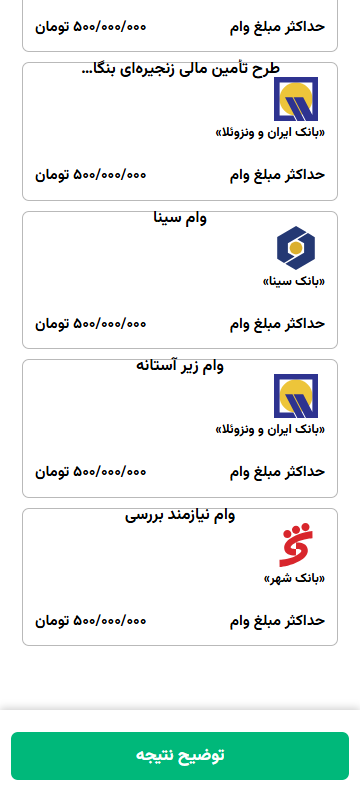
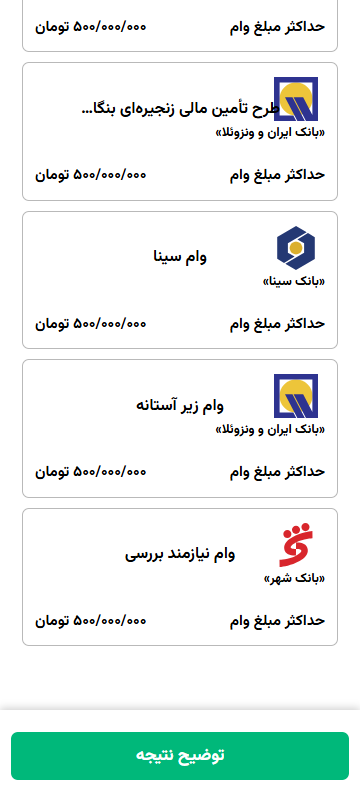
fix(US-09.T06H): align comparison result titles

diff --git a/src/App.css b/src/App.css
@@ -5106,6 +5106,7 @@ button {
   color: #000000;
   display: grid;
   grid-template-columns: 1fr;
+  grid-template-rows: minmax(78px, auto) auto;
   grid-template-areas:
     "title"
     "amount";
@@ -5119,7 +5120,6 @@ button {
 
 .hp-compare-result-card > strong {
   grid-area: title;
-  min-height: 78px;
   width: min(100%, 200px);
   padding-inline: 0;
   box-sizing: border-box;

diff --git a/docs/ui/loan-route-inventory.md b/docs/ui/loan-route-inventory.md
@@ -35,4 +35,4 @@ All three result partitions use the same card structure. Scores are server-owned
 
 ## Bank identity anchor — T06H
 
-Result, low-match, needs-review, comparison-selection, comparison-result and detail cards share one `BankIdentity` component. Its internal-only approved logo occupies a fixed box anchored from the card's right/top border. The lender name is right-aligned with the logo, always remains complete on one line and is never ellipsized; the centered loan title has a one-line 200px budget that keeps the four-word reference title visible, ellipsizes only longer titles while retaining the complete API value in `title`/accessible text, and is shifted upward by 20% of its own height. Compatibility percentages are 1.2 times the surrounding match text, while declared-interest percentages are unchanged. On comparison-selection cards only, the customer-match row is shifted downward by 20% of its own height. Comparison checkboxes have a fixed right offset independent of either name. Selection and result lists reserve scroll space for their fixed action bars; the final comparison-result card remains at least 20px from the fixed explanation button. The results controls form the stacking context above the card list, with visible overflow and a small local menu layer, so options remain visible and clickable without disabling the cards or using an arbitrary global z-index. Browser geometry checks compare short and long names and require logo/checkbox offsets to remain within 1px in desktop and mobile layouts.
+Result, low-match, needs-review, comparison-selection, comparison-result and detail cards share one `BankIdentity` component. Its internal-only approved logo occupies a fixed box anchored from the card's right/top border. The lender name is right-aligned with the logo, always remains complete on one line and is never ellipsized; the centered loan title has a one-line 200px budget that keeps the four-word reference title visible, ellipsizes only longer titles while retaining the complete API value in `title`/accessible text, and is shifted upward by 20% of its own height. The comparison-result title uses the same 78px title row as the other card headers, so its card-relative vertical coordinate remains within 1px of the results title. Compatibility percentages are 1.2 times the surrounding match text, while declared-interest percentages are unchanged. On comparison-selection cards only, the customer-match row is shifted downward by 20% of its own height. Comparison checkboxes have a fixed right offset independent of either name. Selection and result lists reserve scroll space for their fixed action bars; the final comparison-result card remains at least 20px from the fixed explanation button. The results controls form the stacking context above the card list, with visible overflow and a small local menu layer, so options remain visible and clickable without disabling the cards or using an arbitrary global z-index. Browser geometry checks compare short and long names and require logo/checkbox offsets to remain within 1px in desktop and mobile layouts.

diff --git a/CHANGELOG.md b/CHANGELOG.md
@@ -7,6 +7,7 @@ The format follows [Keep a Changelog](https://keepachangelog.com/en/1.1.0/), and
 ## [Unreleased]
 
 ### Added
+- US-09.T06H compare-result alignment follow-up: عنوان وام در کارت نتیجهٔ مقایسه اکنون از همان title row کارتهای دیگر استفاده میکند؛ آزمون browser برابری مختصات عمودی آن با کارت نتایج را تا تلرانس ۱px کنترل میکند.
 - US-09.T06H typography follow-up: عنوان وام در همهٔ کارتها ۲۰٪ ارتفاع خودش بالاتر رفت، ردیف «تطابق با وضعیت مشتری» در انتخاب مقایسه ۲۰٪ پایینتر قرار گرفت و عدد/نماد درصد تطابق بدون تغییر نرخ بهرهٔ اعلامی ۲۰٪ بزرگتر شد؛ Playwright نسبتهای واقعی geometry و font را در desktop/mobile کنترل میکند.
 - US-09.T06H follow-up: نام کامل بانک بدون ellipsis و همراستا با logo نمایش داده میشود؛ بودجهٔ عنوان وام، عبارت چهارکلمهای مرجع را کامل نگه میدارد و فقط عنوان بلندتر را کوتاه میکند؛ آخرین کارت نتیجهٔ مقایسه نیز حداقل ۲۰px از دکمهٔ ثابت فاصله دارد. تغییر فقط UI/test/docs است و داده، API، migration و scoring را تغییر نمیدهد.
 - US-09.T06H follow-up: نام بانک و عنوان وام در همهٔ کارتها تکخطی شدند، checkbox مقایسه در راست ثابت شد، برای نوار ثابتِ مقایسه فضای scroll رزرو شد و stacking/overflow فیلترها بدون workaround قطع pointer اصلاح شد؛ تست هندسی و screenshot موبایل/دسکتاپ با ۱۰ وام افزوده شد. داده، API، migration و scoring تغییر نکردند.
